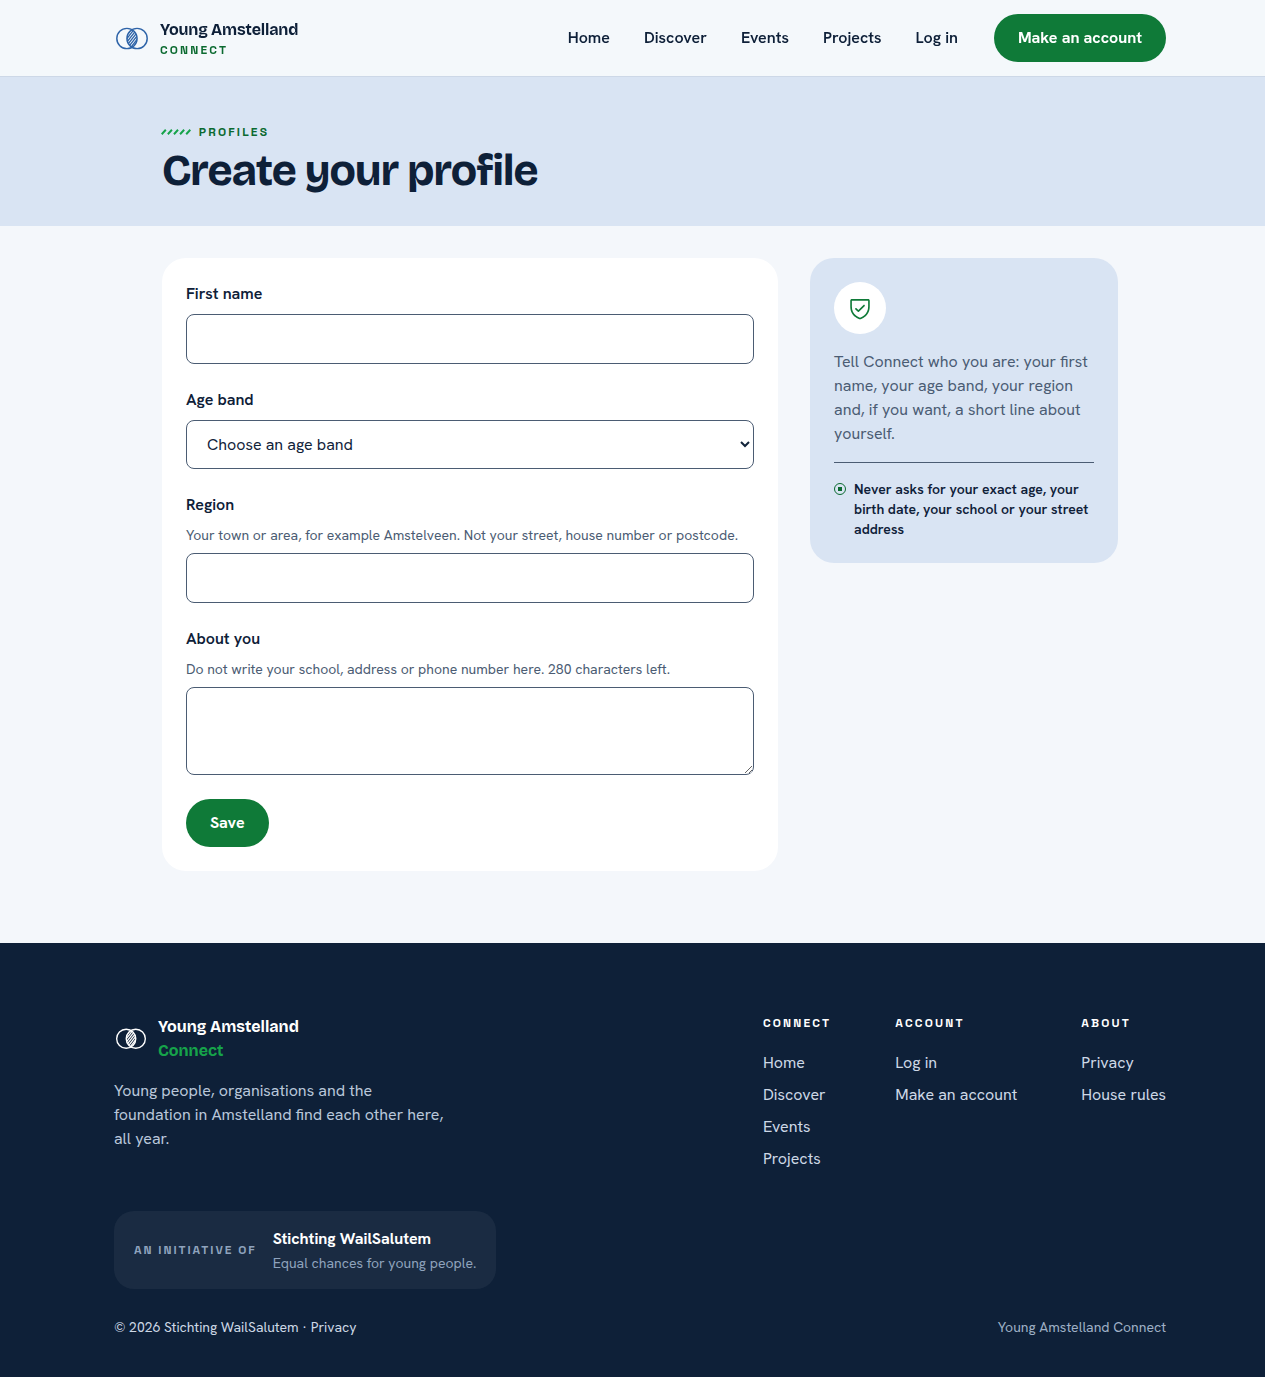
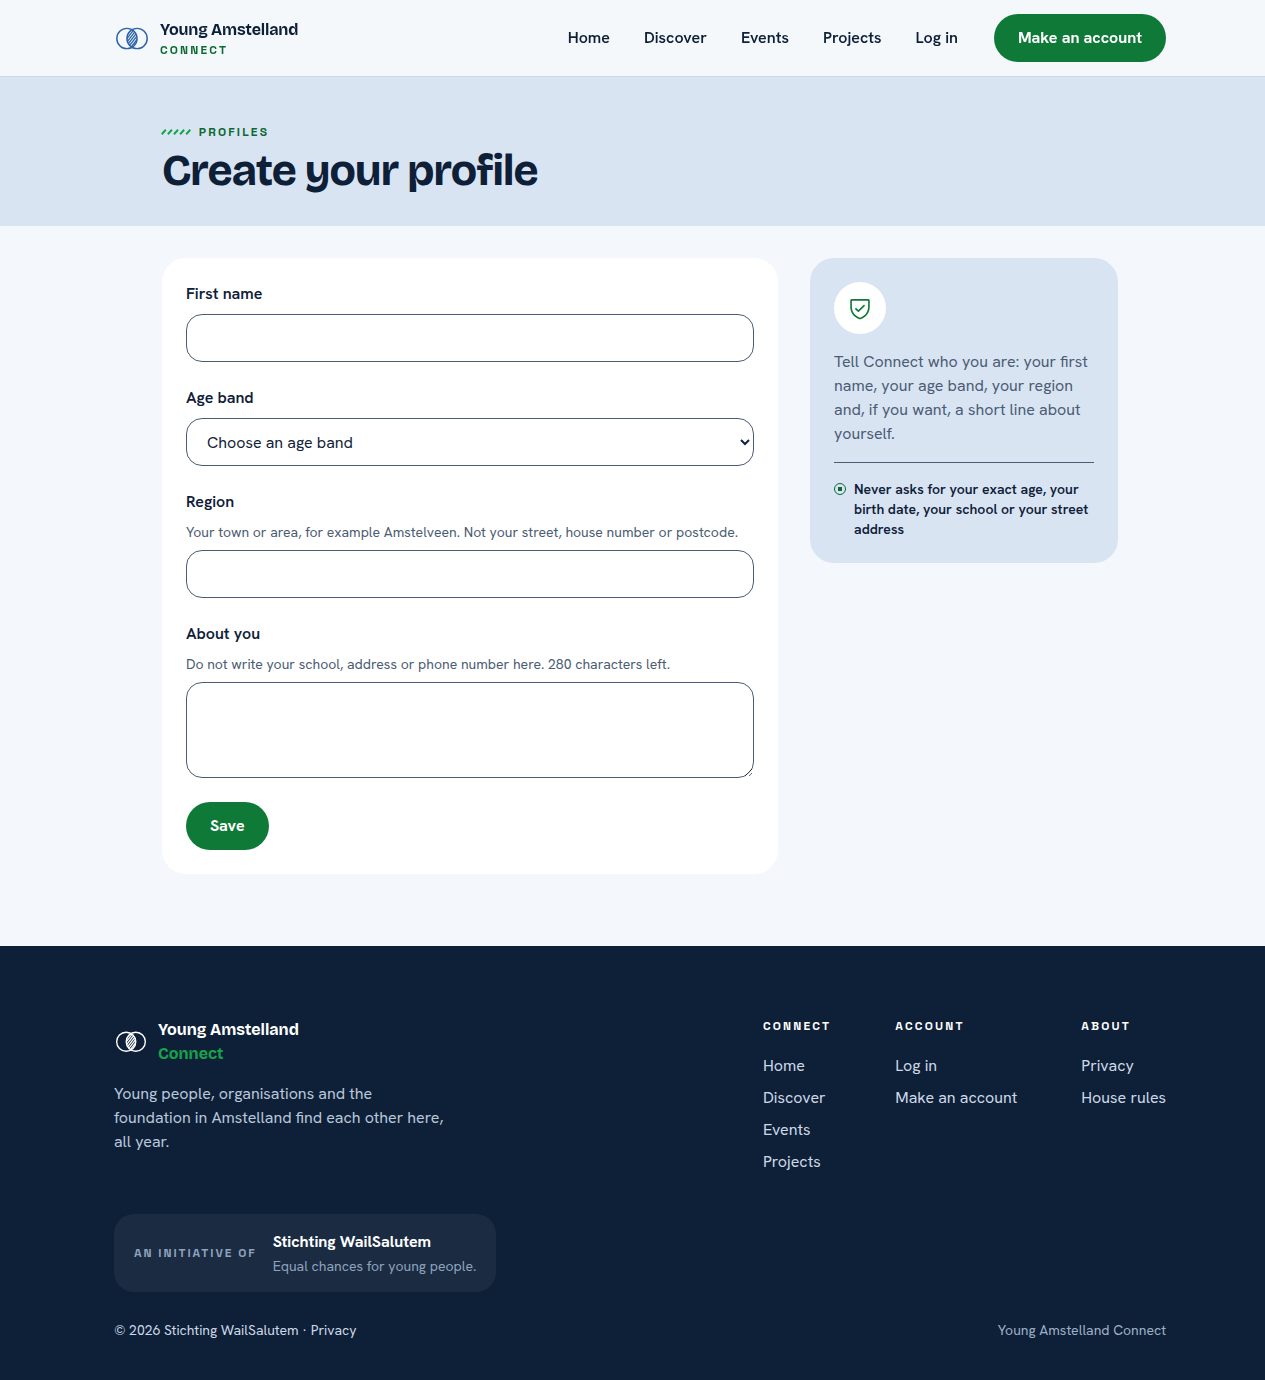
docs(docs): Nick's review and a new run in the proof (#322)

diff --git a/docs/wesley/portfolioProof/task322CreateProfilePage.md b/docs/wesley/portfolioProof/task322CreateProfilePage.md
@@ -1,6 +1,6 @@
 # Proof: task 7.3 The page Create your profile (#322)
 
-Merge request !69, branch `feature/322-create-profile-page`. Issue: 07 Create a profile (#25). Files: `web/src/pages/CreateProfile.tsx`, `CreateProfile.module.css` and `CreateProfile.test.tsx`, `web/src/api/memberProfiles.ts` and its test, `web/src/App.tsx` and `web/src/vite-env.d.ts`.
+Merge request !69, branch `feature/322-create-profile-page`. Issue: 07 Create a profile (#25). Files: `web/src/pages/CreateProfile.tsx`, `CreateProfile.module.css` and `CreateProfile.test.tsx`, `web/src/hooks/useCreateProfile.ts`, `web/src/api/memberProfiles.ts` and its test, `web/src/App.tsx` and `web/src/vite-env.d.ts`, and in Nick Hoebe's files `web/src/components/FormField.tsx` and its CSS, `web/src/api/client.ts` and `web/src/api/accounts.ts`.
 Profile: Full Stack Software Developer, level 3. Portflow: Designing and Realising OR1, OR3, OR4 and OR5.
 
 A point that needs someone else is marked TODO with who and what.
@@ -9,11 +9,17 @@ A point that needs someone else is marked TODO with who and what.
 
 School asks: "You design and implement systematically, justify choices in relation to alternatives, and adapt based on new insights."
 
-1. **The four fields and the states.** First name, age band, region and About you. The page has the states empty, busy, wrong fields, already has a profile, not reachable, not logged in and saved. The typed values live in the page itself, so they stay when the server says no or cannot be reached.
+1. **The four fields and the states.** First name, age band, region and About you. The page has the states empty, busy, wrong fields, already has a profile, not reachable, not logged in and saved. The typed values live in the hook `useCreateProfile`, so they stay when the server says no or cannot be reached.
 2. **The look of the frame.** The title sits in a band with the eyebrow Profiles, the form in a white card, and beside it a panel that says what Connect never asks for. Each hint sits between its label and its field, a wrong field turns red with its message under it, and a conflict or a lost connection shows a red message above the form.
-3. **The page does not call the server itself.** `web/src/api/memberProfiles.ts` sends the form and turns every answer into one of five outcomes, and the page only shows them. So the page is tested with a fake, and the address is tested on its own.
+3. **The page does not call the server itself.** `web/src/api/memberProfiles.ts` sends the form through `request()` of `client.ts` and turns every answer into one of five outcomes, the hook `useCreateProfile` holds the state, and the page only shows it. So the page is tested with a fake, and the address is tested on its own.
 4. **The alternatives I weighed.** A form library such as react-hook-form lost to plain React state, because four fields do not need it, four of us are new to React and a new package is one more thing to learn and to keep safe. One page for making and changing a profile lost to a page of its own, because the edit page of #64 starts from a saved profile and answers differently.
 5. **Log in does not exist yet.** The route `/profile/new` is a plain route until `RequireLogin` of #15 exists, and there is no link from My account yet. Until then the page says who you are with the temporary header of task 7.2, set with `VITE_TEMPORARY_ACCOUNT_ID` in Development only.
+6. **What I changed after Nick's review of 24 October 2026.** Nick Hoebe reviewed the page in !70, which carries it. I took every point over, and each is now a rule of the code conventions, so the next page starts that way:
+   - `memberProfiles.ts` calls the server through `request()` of his `client.ts` instead of `fetch` (frontend rule 14), and reads the messages of a wrong form through one shared type `ValidationProblem` in `client.ts`, which his `accounts.ts` now uses too (frontend rule 15).
+   - The state and the call to the server moved from the page into the hook `useCreateProfile`, the way his `useCreateAccount` does it (frontend rule 13).
+   - Every field is his `FormField`, which now also draws a hint, a select and a textarea, so the page has no field markup of its own (frontend rule 12). His Create account page renders the same as before, and its tests pass unchanged.
+   - The band with the title is a `div`, because `TopBar` already holds the one `header` of the site (frontend rule 16).
+   - The fields now have the corners and the red of `FormField`, the same as Create account, so the two forms of Connect look alike. The element selector `button` of his `CreateAccount.module.css` also reaches this page, so the Save button sets its own width, and the point is on the list for the stand up.
 - TODO Wesley: what I changed after a teammate used it on a phone.
 
 ## OR3 Involving stakeholders and weighing their feedback
@@ -29,11 +35,11 @@ School asks: "You proactively involve multiple stakeholders with diverse interes
 School asks: "You systematically validate that the solution does what it should, and draw conclusions for improvement."
 
 1. **The tests.** `CreateProfile.test.tsx` checks the three age bands with none chosen, the counter and the characters too many, the busy button, the saved message with See my profile, the field messages with the focus on the first wrong field, the region hint linked to its field, the panel beside the form, the conflict of the server, not reachable and not logged in with every value kept, and 0 axe problems on the empty form and with field messages. `memberProfiles.test.ts` checks the body and headers that are sent and every answer, also the title of a 409. 44 tests of the screen pass, and lint, Prettier and the build are clean.
-2. **In a real browser against the real server.** With the address of task 7.2 running in Development and the temporary account, I filled the page in Chrome at 360 and 1280 pixels wide. An empty form with a bio of 281 characters got the four messages of the server under their fields, with the focus on First name. A valid form saved the profile, with `" Robin "` stored as `Robin`, and a second save showed You already have a profile. axe in the browser, colour contrast included, found 0 problems at both widths in every state.
+2. **In a real browser against the real server.** With the address of task 7.2 running in Development and the temporary account, I filled the page in Chrome at 360 and 1280 pixels wide. An empty form with a bio of 281 characters got the four messages of the server under their fields, with the focus on First name. A valid form saved the profile, with `" Robin "` stored as `Robin`, and a second save showed You already have a profile. axe in the browser, colour contrast included, found 0 problems at both widths in every state. On 26 October 2026, after the changes of Nick's review, I ran it again the same way against the server of !68: the four messages under their fields with the focus on First name at both widths, the profile saved, You already have a profile on the second save, and 0 axe problems in every state. The screenshots below are of that run.
 3. **A test broken on purpose.** With the line that moves the focus to First name taken out, the test of the field messages failed, and it passed again once the line was put back.
 4. **What I changed after the first run.** An answer that is not JSON now counts as not reachable instead of breaking the page, and the counter says 1 character left instead of 1 characters left.
 5. **What I changed after checking the Figma frame and the page document.** The first version was one plain column. I compared it with the frame Create your profile and with `docs/pages/CreateProfile.md`, and changed: the band with the eyebrow, the card and the panel beside it, the hints above the fields, the full region hint "Your town or area, for example Amstelveen. Not your street, house number or postcode.", red for a wrong field and for the message above the form, the message above the form as an alert with the title the server sends (so the organisation case of #67 needs no new code), the link See my profile after saving, the message "Your short line can be at most 280 characters" from the page document (in !68), and the counter saying how many characters are too many. The red colours come from the design and are now tokens in `web/src/styles/tokens.css`.
-6. **Where I did not follow the frame, and why.** The borders of the fields are darker than in the frame, because the light line of the frame has a contrast of about 1.4 to 1 with white, and WCAG 2.2 asks 3 to 1 for the border of a field. The panel shows the shield icon the site already has instead of a person icon. The saved message has no drawing yet, because the site has no such picture.
+6. **Where I did not follow the frame, and why.** The fields have the corners and the red of `FormField` since 26 October 2026 (OR1 point 6), where frame G01 draws smaller corners. The borders of the fields are darker than in the frame, because the light line of the frame has a contrast of about 1.4 to 1 with white, and WCAG 2.2 asks 3 to 1 for the border of a field. The panel shows the shield icon the site already has instead of a person icon. The saved message has no drawing yet, because the site has no such picture.
 7. **What is not covered yet.** The question younger than 16 and the address of a parent come with #40 (task 130.5), with the second line of the panel, "Under 16? We ask for a parent's email once, only to ask permission". The message for a street in Region comes with #26. The link from My account and the page behind log in come with #1538.
 
 ![The empty form at 360 pixels](images/task322EmptyForm360.png)
@@ -52,8 +58,9 @@ School asks: "In your design and implementation, you consciously take into accou
 
 ## TODO
 
-- [ ] Wesley: the OR1 and OR3 lines above, after a teammate and one person outside the team tried the page on a phone.
-- [ ] Wesley: after the merge, tick the boxes of #322 with the evidence in a comment.
+- [ ] Wesley: the OR1 and OR3 lines above, after a teammate and one person outside the team tried the page on a phone, before anyone approves !69.
+- [ ] Wesley: frame G01 in Figma gets the corners and the red of `FormField`, so the design matches the page again. No change to this branch for it.
+- [ ] Wesley: after the merge, tick the boxes of #322 with the evidence in a comment. No change to this branch for it.
 
 ## AI use
 
